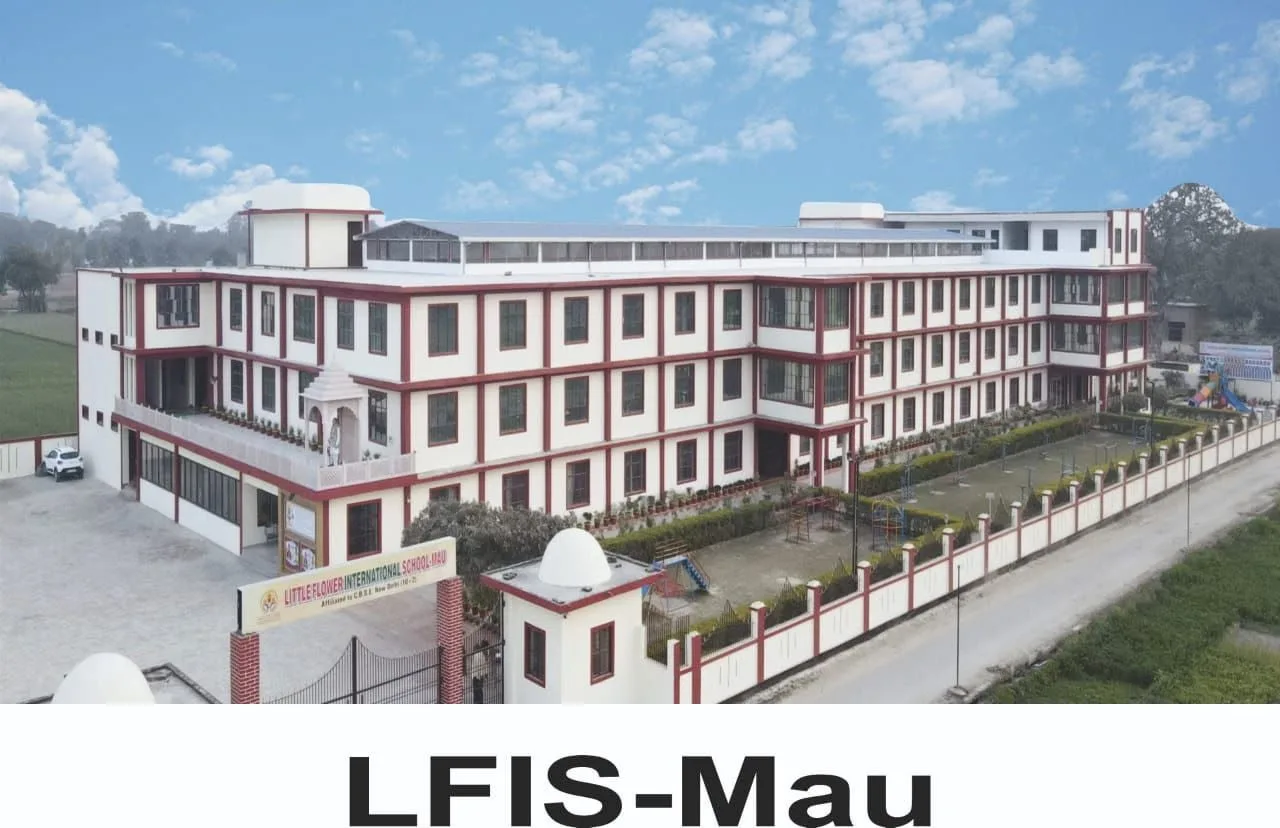
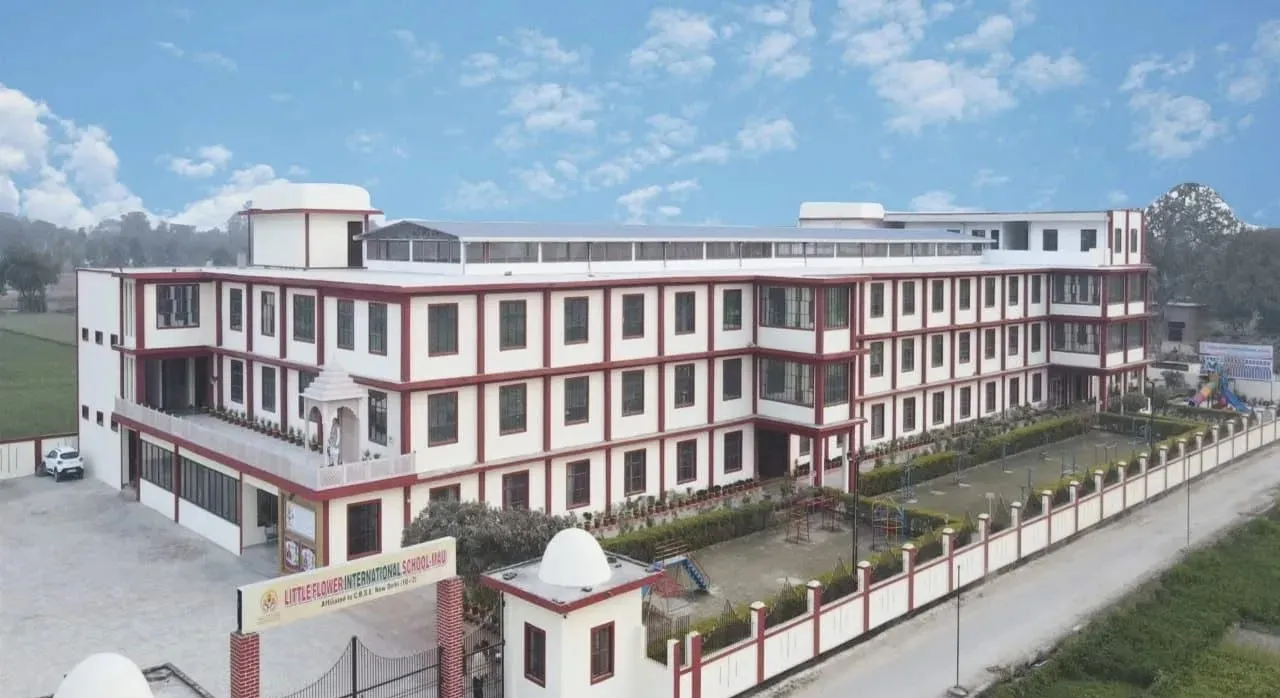
feat: add new components, pages, and asset images for school website

diff --git a/src/components/our-school/AllSchoolsListSection.tsx b/src/components/our-school/AllSchoolsListSection.tsx
@@ -48,7 +48,7 @@ export const schools = [
     img: '/schools/Khalispur-Balia.webp'
   },
   {
-    name: 'LFCS, KASIMABAD',
+    name: 'LFCS, KASIMABAD GHAZIPUR',
     city: 'Kasimabad',
     state: 'Uttar Pradesh',
     address: 'RM22+GPP, Campus: Gehuri, Mardah - Kasimabad Rd, Kasimabad, Uttar Pradesh 233230',
@@ -57,6 +57,17 @@ export const schools = [
     facebook: 'https://www.facebook.com/share/1HDhticq5g/',
     youtube: 'https://m.youtube.com/%40lfcs-ghazipur?fbclid=PAb21jcATneaJwZG9mAmV4dG4DYWVtAjExAHNydGMGYXBwX2lkDzU2NzA2NzM0MzM1MjQyNwABpxOWZnA2iTlDmD-F17tfUplSU6zSWMXnudLmhm37QeOK1oHD_Dqo8SWU6W-u_aem_yXSkKcFwEpvnM-qYsL_hCw',
     img: '/schools/Kasimabad.webp'
+  },
+  {
+    name: 'LFCS, AZAMGARH',
+    city: 'Azamgarh',
+    state: 'Uttar Pradesh',
+    address: 'Sardaha Tahbarpur, Azamgarh, Uttar Pradesh',
+    website: 'https://lfcsazamgarh.org.in/',
+    instagram: 'https://www.instagram.com/lfcsazamgarh?igsh=MTM4b3YzaTBoMmVqZg==',
+    facebook: 'https://www.facebook.com/share/1JBYeqSdEN/',
+    youtube: 'https://www.youtube.com/watch?feature=shared&v=90HTbxPKwIg',
+    img: '/schools/lfcs-azamgarh.webp'
   },
   {
     name: 'LFIS, MAU',

diff --git a/src/components/OurSchoolsSection.tsx b/src/components/OurSchoolsSection.tsx
@@ -50,7 +50,7 @@ const schools = [
     img: '/schools/Khalispur-Balia.webp'
   },
   {
-    name: 'LFCS, KASIMABAD',
+    name: 'LFCS, KASIMABAD GHAZIPUR',
     city: 'Kasimabad',
     state: 'Uttar Pradesh',
     address: 'RM22+GPP, Campus: Gehuri, Mardah - Kasimabad Rd, Kasimabad, Uttar Pradesh 233230',
@@ -59,6 +59,17 @@ const schools = [
     facebook: 'https://www.facebook.com/share/1HDhticq5g/',
     youtube: 'https://m.youtube.com/%40lfcs-ghazipur?fbclid=PAb21jcATneaJwZG9mAmV4dG4DYWVtAjExAHNydGMGYXBwX2lkDzU2NzA2NzM0MzM1MjQyNwABpxOWZnA2iTlDmD-F17tfUplSU6zSWMXnudLmhm37QeOK1oHD_Dqo8SWU6W-u_aem_yXSkKcFwEpvnM-qYsL_hCw',
     img: '/schools/Kasimabad.webp'
+  },
+  {
+    name: 'LFCS, AZAMGARH',
+    city: 'Azamgarh',
+    state: 'Uttar Pradesh',
+    address: 'Sardaha Tahbarpur, Azamgarh, Uttar Pradesh',
+    website: 'https://lfcsazamgarh.org.in/',
+    instagram: 'https://www.instagram.com/lfcsazamgarh?igsh=MTM4b3YzaTBoMmVqZg==',
+    facebook: 'https://www.facebook.com/share/1JBYeqSdEN/',
+    youtube: 'https://www.youtube.com/watch?feature=shared&v=90HTbxPKwIg',
+    img: '/schools/lfcs-azamgarh.webp'
   },
   {
     name: 'LFIS, MAU',

diff --git a/src/app/experience/page.tsx b/src/app/experience/page.tsx
@@ -3,7 +3,6 @@ import LifeAtLFCSSection from "@/components/experience/LifeAtLFCSSection";
 import SportsFitnessSection from "@/components/experience/SportsFitnessSection";
 import ArtsCultureSection from "@/components/experience/ArtsCultureSection";
 import ClubsActivitiesSection from "@/components/experience/ClubsActivitiesSection";
-import StudentAchievementsSection from "@/components/experience/StudentAchievementsSection";
 import GallerySection from "@/components/experience/GallerySection";
 import ExperienceCTASection from "@/components/experience/ExperienceCTASection";
 
@@ -20,7 +19,6 @@ export default function ExperiencePage() {
       <SportsFitnessSection />
       <ArtsCultureSection />
       <ClubsActivitiesSection />
-      <StudentAchievementsSection />
       <GallerySection />
       <ExperienceCTASection />
     </main>

diff --git a/src/components/Header.tsx b/src/components/Header.tsx
@@ -29,7 +29,8 @@ export default function Header() {
         { label: 'LFCS, SIKATIYA', href: 'https://lfcsmau.co/', img: '/schools/Sikatia-Mau.webp' },
         { label: 'LFCS, GHOSI', href: 'https://www.lfcsghosi.co.in/', img: '/schools/Ghosi.webp' },
         { label: 'LFCS, BALLIA', href: 'https://lfcsballia.co.in/', img: '/schools/Khalispur-Balia.webp' },
-        { label: 'LFCS, KASIMABAD', href: 'https://www.lfcskasimabad.in/', img: '/schools/Kasimabad.webp' },
+        { label: 'LFCS, KASIMABAD GHAZIPUR', href: 'https://www.lfcskasimabad.in/', img: '/schools/Kasimabad.webp' },
+        { label: 'LFCS, AZAMGARH', href: 'https://lfcsazamgarh.org.in/', img: '/schools/lfcs-azamgarh.webp' },
         { label: 'LFIS, MAU', href: 'https://lfismau.co.in/', img: '/schools/lfis-mau.webp' },
       ]
     },

diff --git a/src/components/academics/FacultySection.tsx b/src/components/academics/FacultySection.tsx
@@ -5,7 +5,7 @@ const principals = [
   { name: "P. L. Jaishi", school: "LFCS, Sikatiya", city: "Mau", img: "/academics/principals/pl-jaishi.webp" },
   { name: "Sanjay Rai", school: "LFCS, Ghosi", city: "Ghosi", img: "/academics/principals/sanjay-rai.webp" },
   { name: "Deepa Pal", school: "LFCS, Ballia", city: "Mau", img: "/academics/principals/deepa-pal.webp" },
-  { name: "Ekta Singh", school: "LFCS, Kasimabad", city: "Kasimabad", img: "/academics/principals/ekta-singh.webp" },
+  { name: "Ekta Singh", school: "LFCS, Kasimabad Ghazipur", city: "Kasimabad", img: "/academics/principals/ekta-singh.webp" },
   { name: "Zeeta Lepcha", school: "LFIS, Mau", city: "Mau", img: "/academics/principals/zeeta-lepcha.webp" },
 ];
 

diff --git a/src/components/HeroSection.tsx b/src/components/HeroSection.tsx
@@ -42,7 +42,7 @@ export default function HeroSection() {
           <div className="flex flex-row gap-2 md:gap-4 items-start">
             <GraduationCap className="w-7 h-7 md:w-11 md:h-11 text-red-500 mb-2 md:mb-3 shrink-0" strokeWidth={1.5} />
             <div>
-              <div className="text-xl md:text-3xl font-medium text-[#0a192f]">14000+</div>
+              <div className="text-xl md:text-3xl font-medium text-[#0a192f]">40000+</div>
               <div className="text-[10px] md:text-xs font-medium text-gray-500 uppercase tracking-wide mt-0.5 md:mt-1">Happy Students</div>
             </div>
           </div>

diff --git a/src/components/about/LeadershipSection.tsx b/src/components/about/LeadershipSection.tsx
@@ -181,7 +181,6 @@ export default function LeadershipSection() {
             <div className="flex flex-col-reverse md:flex-row items-center gap-8 lg:gap-12">
               <div className="w-full md:w-3/5 space-y-6 pl-10">
                 <div>
-                  <h3 className="text-[#c76785] font-bold text-[13px] uppercase tracking-[0.15em] mb-2">Founder</h3>
                   <h2 className="font-serif text-[28px] md:text-[32px] text-[#0a192f] font-medium leading-tight">Ms. Manju Rana</h2>
                 </div>
 

diff --git a/src/components/about/OurGrowthSection.tsx b/src/components/about/OurGrowthSection.tsx
@@ -48,7 +48,7 @@ export default function OurGrowthSection() {
     },
     {
       year: "2022",
-      title: "LFCS, Kasimabad",
+      title: "LFCS, Kasimabad Ghazipur",
       desc: "A new branch in Kasimabad, Ghazipur, commencing operations in the 2022-23 session.",
       color: "#842b46",
       bgColor: "bg-[#f8eef1]",
